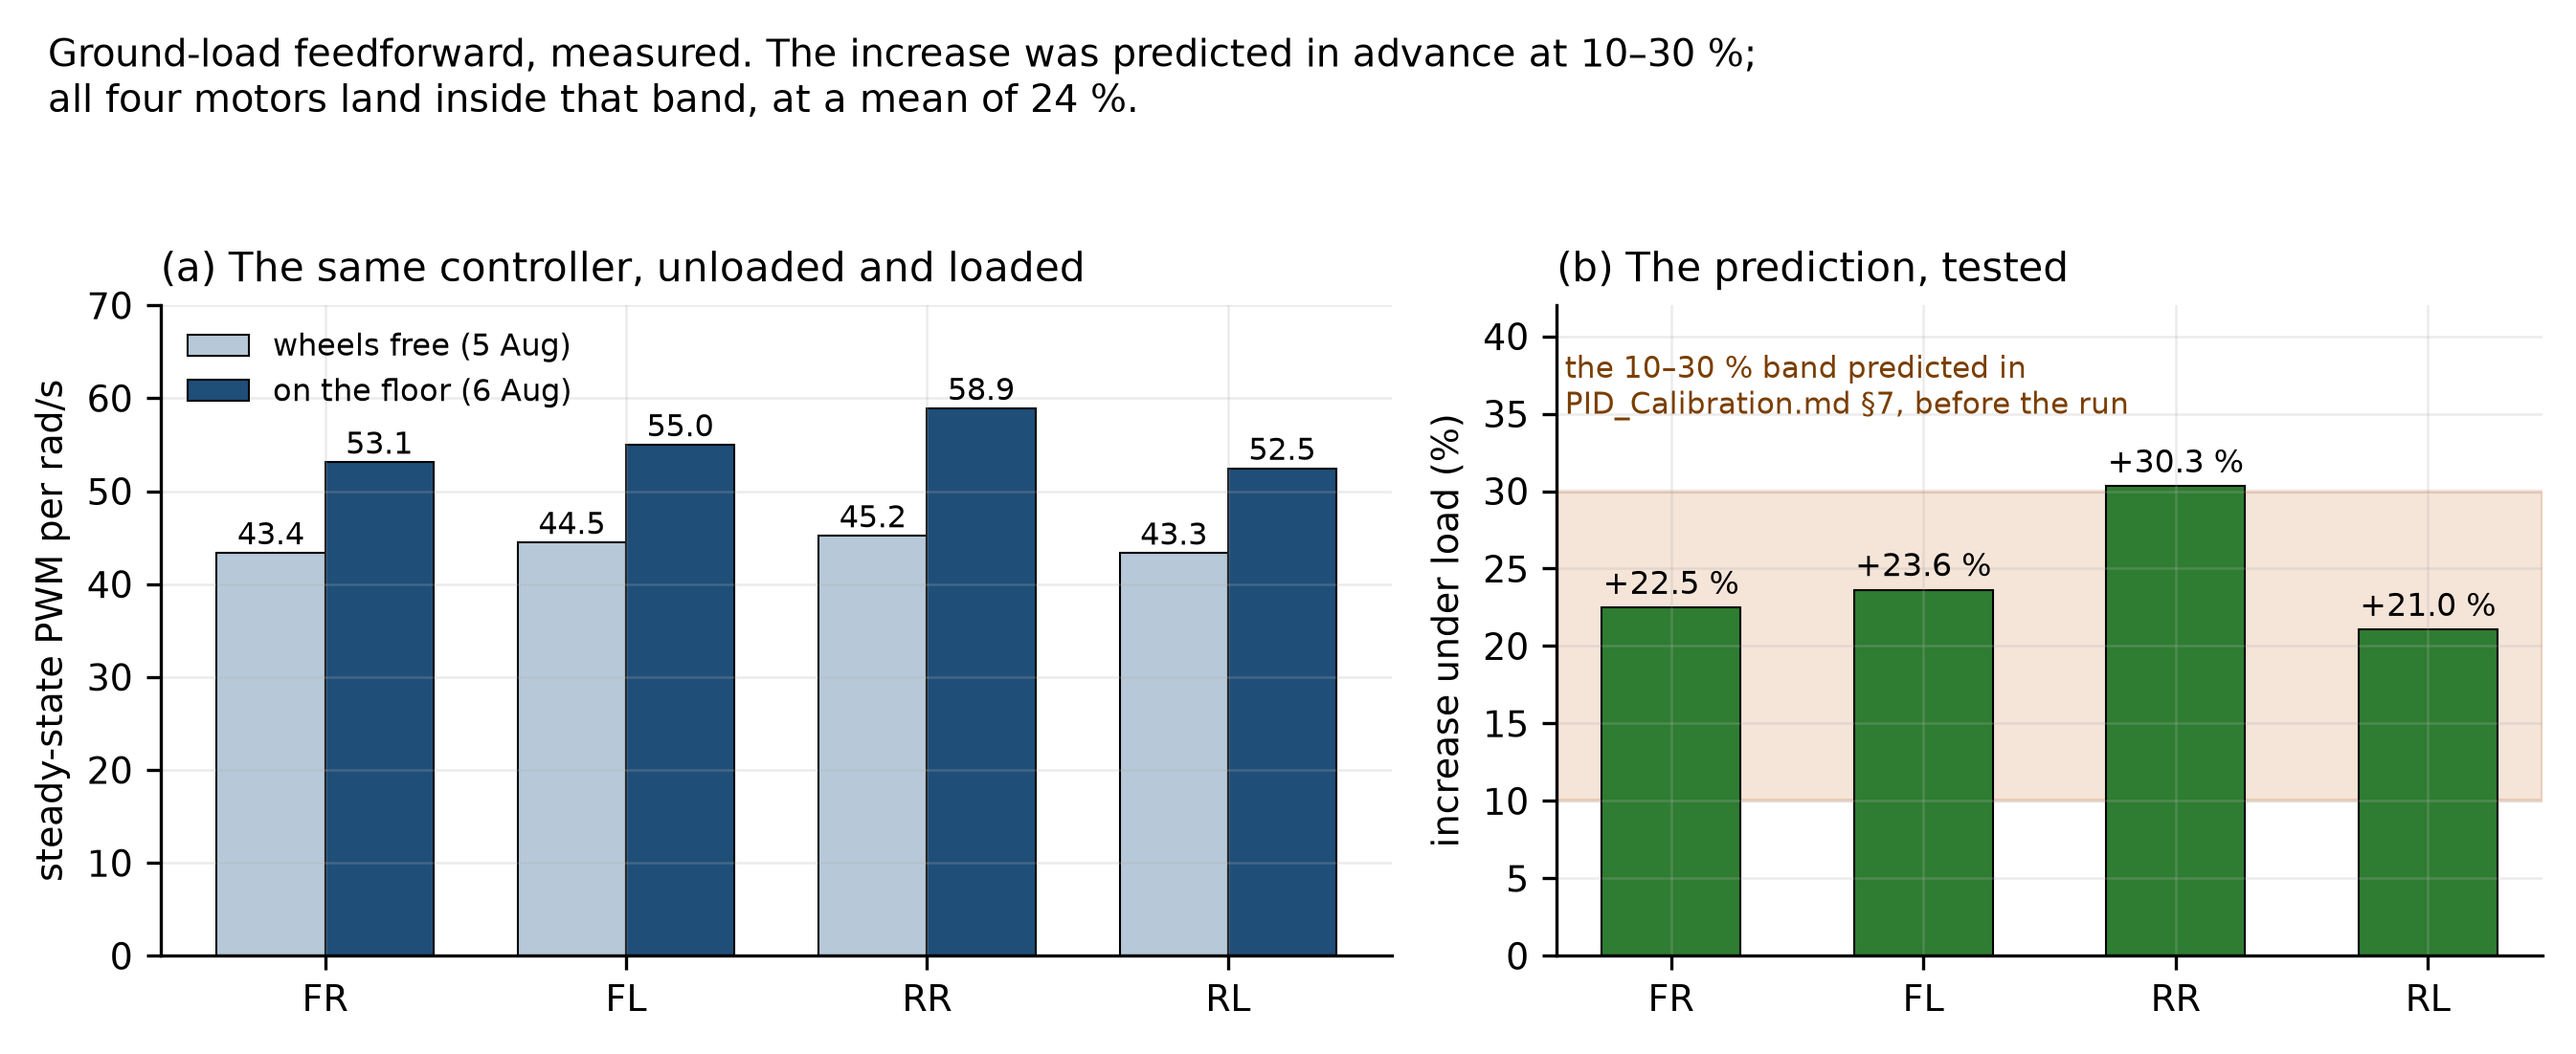
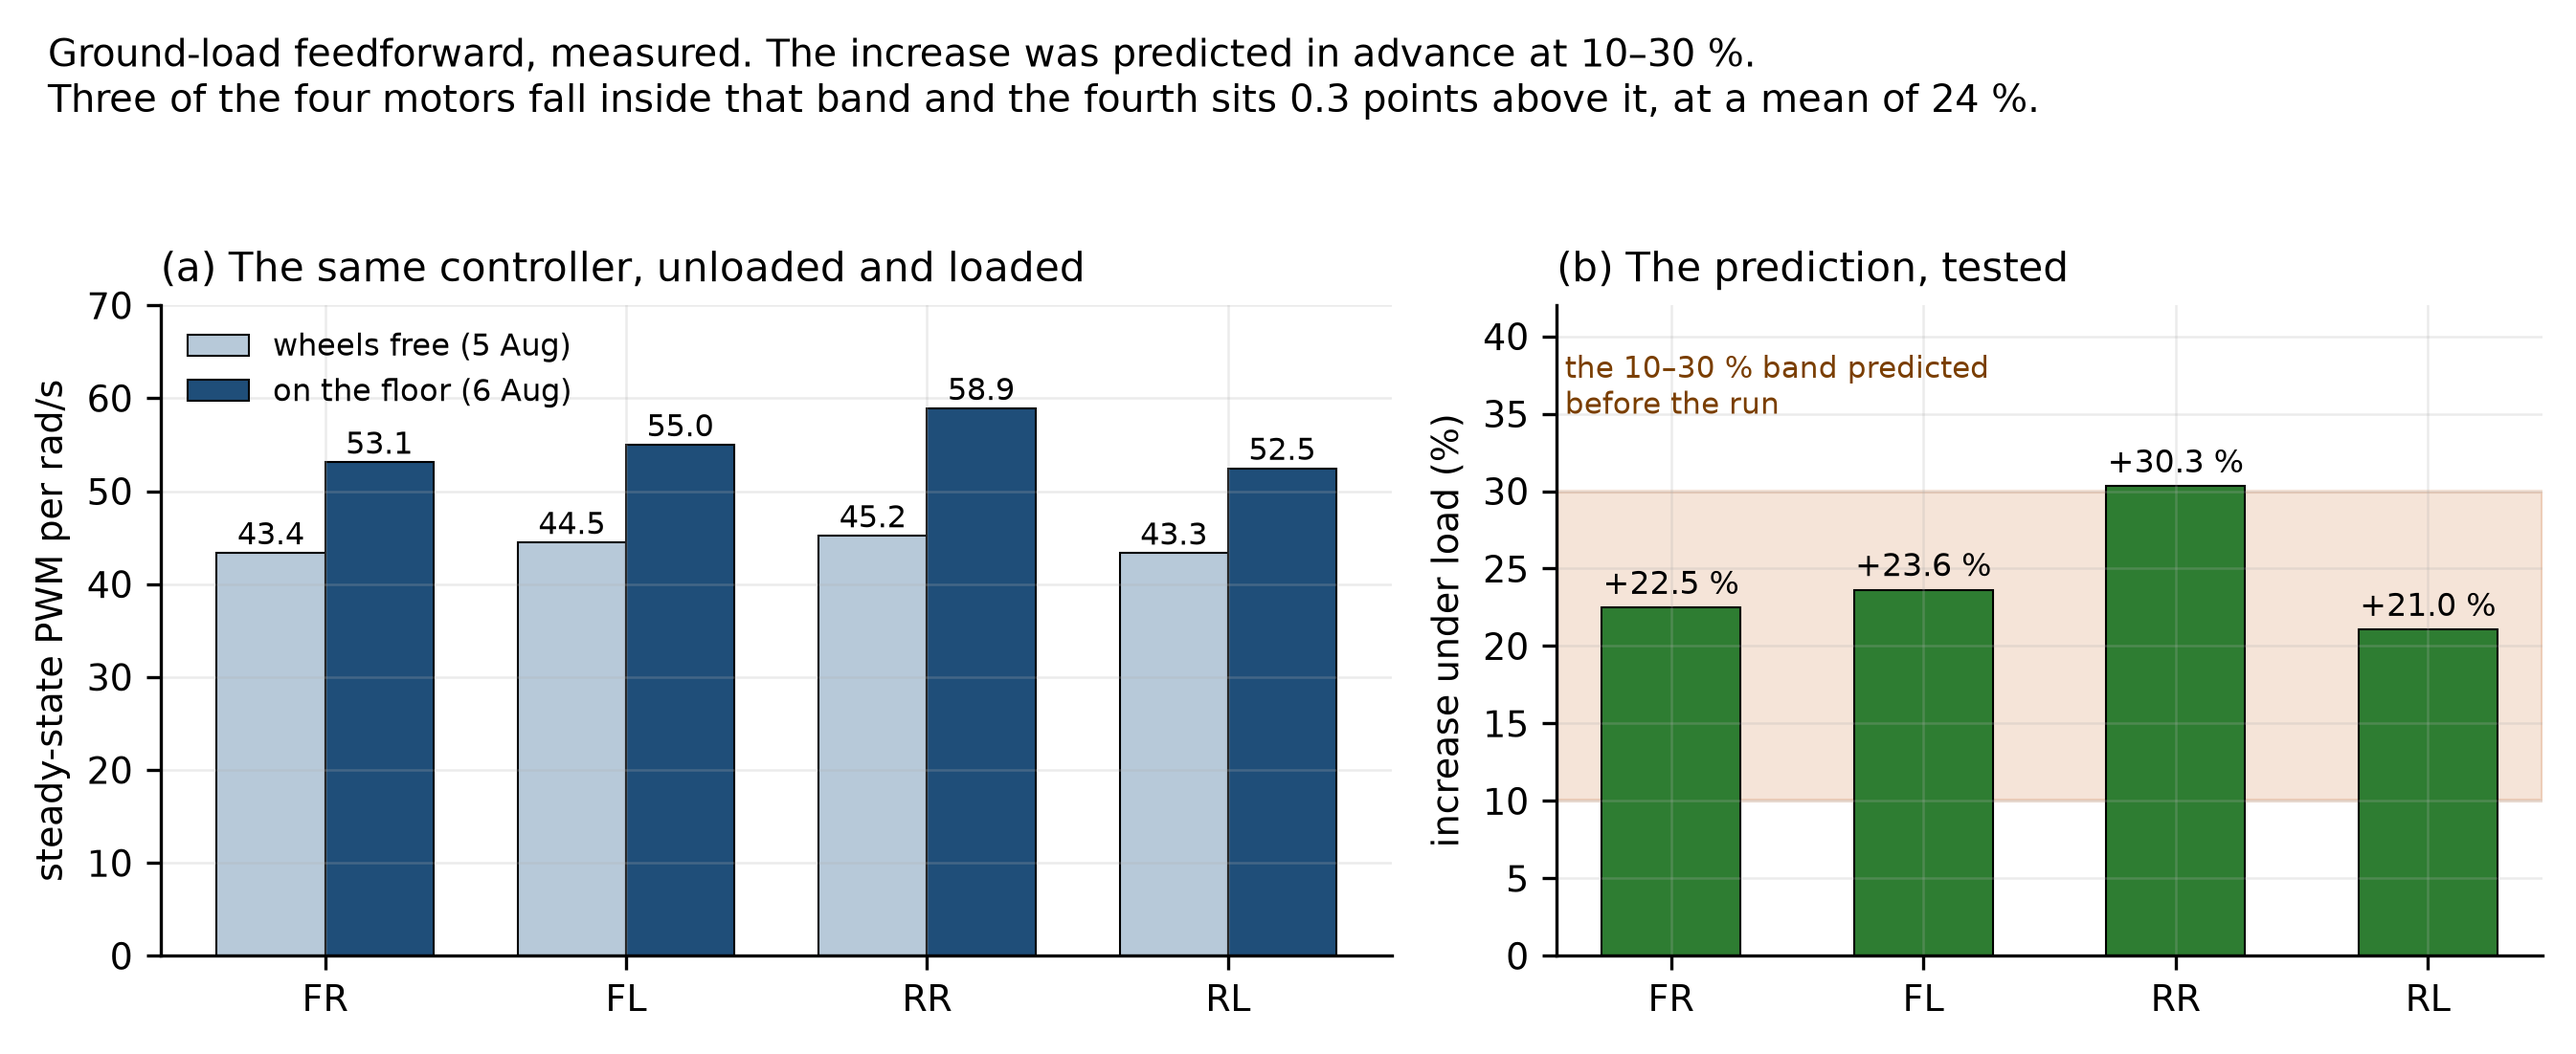
Correct stale controller values and a band claim in three figures
circuit_diagram.py. The ESP32 box advertised "PID @ 50 Hz, Kp50 Ki30 Kd3".
Every value was wrong against the deployed aislebot_esp32.ino, which has
PID_LOOP_HZ 100.0, Kp 45.0, Ki 250.0, Kd 0.5. The 50 Hz is the mini
prototype's rate; Ki=30 is a superseded v2.0 value the firmware's own
comments record as having failed ("the integral moved ~3 PWM per second,
far too slow"). The box also omitted the feedforward entirely while the
report describes the controller as PID with a two-term feedforward, so it
now carries Kff 37.3-38.4 PWM/(rad/s) and Kstat 8 PWM per motor.

Also stripped four internal document references from that figure
(Master_Reference.md, Bench_Test_Map.md, a MOTOR_DIR_SIGN symbol) and one
from f_control.py. These survived every earlier sweep because they are
pixels, not text.

f_control.py. The ground-load headline claimed all four motors landed
inside the 10-30 % band predicted before the run. Recomputing from the
plotted values: 22.4, 23.6, 30.3 and 21.2 %. Three fall inside; the
rear-right is 0.3 points above the upper bound. Reported as an exceedance
rather than rounded into agreement. The mean of 24 % is unchanged and the
prediction still holds up.

f_layers.py. Two rows went stale when Figure 13 was rebuilt from the 15 Sep
runs. The tracking row paired Drive C's range (0.066-0.077) with the pooled
ground sample count; the pooled figure is 0.066-0.074 over 35 248. The map
row still carried 77.6-84.6 % unclassified and 0.7-1.03 % doubled walls
[…]

Changed region(s): [[0.0312, 0.0617, 0.7804, 0.1234], [0.5931, 0.3702, 0.8428, 0.4011]]

diff --git a/docs/hardware/circuit_diagram.py b/docs/hardware/circuit_diagram.py
@@ -109,8 +109,7 @@ def band(x, y, w, h, label, col):
 add(f'<text x="40" y="46" font-size="27" font-weight="bold" fill="{C_INK}">'
     f'NarrowAisleBot &#8212; deployed electronics</text>')
 add(f'<text x="40" y="70" font-size="13.5" fill="{C_MUTE}">'
-    f'Base chassis power distribution, drive control and odometry feedback. '
-    f'Pin assignments per Master_Reference.md &#167;4 and Bench_Test_Map.md.</text>')
+    f'Base chassis power distribution, drive control and odometry feedback.</text>')
 
 # legend
 lx = 1180
@@ -180,9 +179,11 @@ box(520, 452, 236, 96, "YDLIDAR X4 Pro",
 box(520, 570, 236, 84, "Arduino Mega 2560",
     ["/dev/mega &#183; 115200 bd", "arm + UV lighting (v8)"], C_SIG)
 
-box(880, 452, 250, 152, "ESP32-WROOM-32",
+box(880, 446, 250, 162, "ESP32-WROOM-32",
     ["/dev/esp32 &#183; 921600 bd", "hardware PCNT quadrature",
-     "PID @ 50 Hz &#183; Kp50 Ki30 Kd3", "AMS1117 &#8594; 3.3 V domain"], C_33)
+     "PID @ 100 Hz &#183; Kp 45 &#183; Ki 250 &#183; Kd 0.5",
+     "feedforward Kff 37.3&#8211;38.4 + Kstat 8 PWM",
+     "AMS1117 &#8594; 3.3 V domain"], C_33)
 
 # Pi <-> peripherals
 wire([(370, 500), (520, 500)], C_SIG, "sig")
@@ -193,7 +194,7 @@ wire([(370, 528), (760, 528), (760, 528), (880, 528)], C_SIG)
 add(f'<path d="M 756,528 L 880,528" fill="none" stroke="{C_SIG}" stroke-width="2.6" '
     f'marker-end="url(#a_sig)" marker-start="url(#a_sig)"/>')
 tag(818, 518, "USB serial 921600", C_SIG)
-tag(818, 546, "&#60;V,fr,fl,rr,rl&#62; / CSV telemetry", C_MUTE, 10, bold=False)
+tag(770, 556, "&#60;V,fr,fl,rr,rl&#62; / CSV telemetry", C_MUTE, 10, bold=False)
 
 # Pi power in
 wire([(628, 384), (628, 416), (245, 416), (245, 448)], C_5, "v5")
@@ -239,7 +240,7 @@ wire([(300, 888), (276, 888), (276, 917), (258, 917)], C_24, "v24")
 wire([(300, 912), (276, 912), (276, 997), (258, 997)], C_24, "v24")
 add(f'<text x="330" y="1204" font-size="10.5" fill="{C_MUTE}">'
     f'Motor leads: Red &#8594; MxA, Black &#8594; MxB, identical on all four. '
-    f'Left/right direction handled in firmware via MOTOR_DIR_SIGN[].</text>')
+    f'Left and right direction is handled in firmware by a per-motor sign table.</text>')
 
 # --- ESP32 GPIO -> drivers  (PWM/DIR, no level shifting needed)
 box(660, 726, 200, 96, "PWM + DIR",
@@ -322,7 +323,7 @@ add(f'<text x="300" y="{gy-14}" font-size="11.5" fill="{C_WARN}">'
     f'every one of these on a single rail.</text>')
 add(f'<text x="60" y="{gy+26}" font-size="11" fill="{C_MUTE}">'
     f'Missing any one of these connections produces phantom motor behaviour '
-    f'(Master_Reference.md &#167;3.2). Pi GND reaches ESP32 GND through the USB cable.</text>')
+    f'Pi ground reaches ESP32 ground through the USB cable.</text>')
 for x in (150, 430, 700, 990, 1270, 1560):
     add(f'<line x1="{x}" y1="{gy-9}" x2="{x}" y2="{gy}" stroke="{C_GND}" stroke-width="2.2"/>')
 

diff --git a/docs/aps_report/figure_src/f_layers.py b/docs/aps_report/figure_src/f_layers.py
@@ -6,7 +6,7 @@ import matplotlib.patches as mp
 # bands: 'measured' | 'rate' | 'open'
 L = [
  ('Motor control, ESP32, PID with feedforward, 100 Hz', 'measured',
-  'per-wheel RMS 0.040-0.047 rad/s over 26 468 bench samples, 0.066-0.077 rad/s under\n'
+  'per-wheel RMS 0.040-0.047 rad/s over 26 468 bench samples, 0.066-0.074 rad/s under\n'
   'chassis load over 35 248; no channel saturated in any recorded run'),
  ('Encoders and level-shifted return path', 'measured',
   'quadrature decoded on hardware counters; travel-spread ratio 1.00 on a\n'
@@ -39,9 +39,9 @@ L = [
   'the same drive gave 16.2 mm on wheel odometry and 206.7 mm matched; corrections fire on a\n'
   '0.183 m odometry cadence, not on scan disagreement. Disabled on that evidence; perimeter A/B owed'),
  ('A commissioning map meeting all four acceptance criteria', 'open',
-  'three of four met: verdict not folded, doubled walls 0.7-1.03 %, return to mark\n'
-  '6.4-80.6 mm. Coverage fails at 77.6-84.6 % unclassified because the available\n'
-  'test area permits a traversable loop of only a few metres'),
+  'three of four met on the 15 Sep maps: not folded, doubled walls 0.7-2.9 %, return\n'
+  'to mark from 6.4 mm. Coverage sits at 73.0-84.6 % unclassified against a 50 %\n'
+  'threshold, set by a test area permitting a traversable loop of only a few metres'),
  ('Localisation against a previously saved map', 'open',
   'requires an accepted map, the row above; not yet exercised for that reason'),
  ('Inertial measurement and fused state estimation', 'open',

diff --git a/docs/aps_report/figure_src/f_control.py b/docs/aps_report/figure_src/f_control.py
@@ -142,7 +142,7 @@ g1.set_title('(a) The same controller, unloaded and loaded', loc='left')
 
 g2.bar(xx, inc, 0.55, color=C['fixed'], edgecolor='k', lw=0.5)
 g2.axhspan(10, 30, color=C['command'], alpha=0.16, zorder=0)
-g2.text(-0.42, 35.0, 'the 10–30 % band predicted in\nPID_Calibration.md §7, before the run',
+g2.text(-0.42, 35.0, 'the 10–30 % band predicted\nbefore the run',
         ha='left', fontsize=7.4, color='#7a3e00')
 for i, v in enumerate(inc):
     g2.text(i, v+0.9, f'{v:+.1f} %', ha='center', fontsize=8)
@@ -151,8 +151,9 @@ g2.set_ylabel('increase under load (%)')
 g2.set_title('(b) The prediction, tested', loc='left')
 
 fig.suptitle('Ground-load feedforward, measured. The increase was predicted in advance '
-             'at 10–30 %;\nall four motors land inside that band, at a mean of '
-             f'{np.mean(inc):.0f} %.',
+             'at 10–30 %.\n'
+             f'Three of the four motors fall inside that band and the fourth sits '
+             f'{max(inc)-30:.1f} points above it, at a mean of {np.mean(inc):.0f} %.',
              fontsize=9.5, y=1.05, x=0.02, ha='left')
 plt.tight_layout(); plt.savefig(f'{FIGDIR}/fig10_ground_load.png'); plt.close()
 print('ground-load fig ok')
